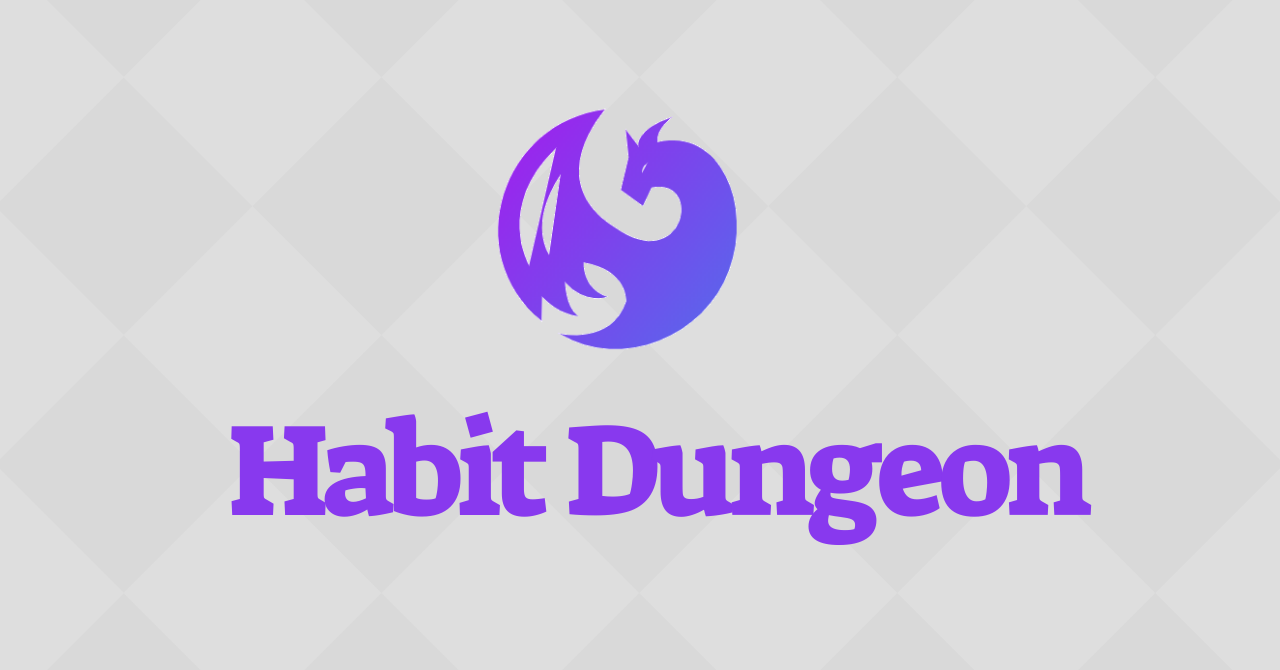
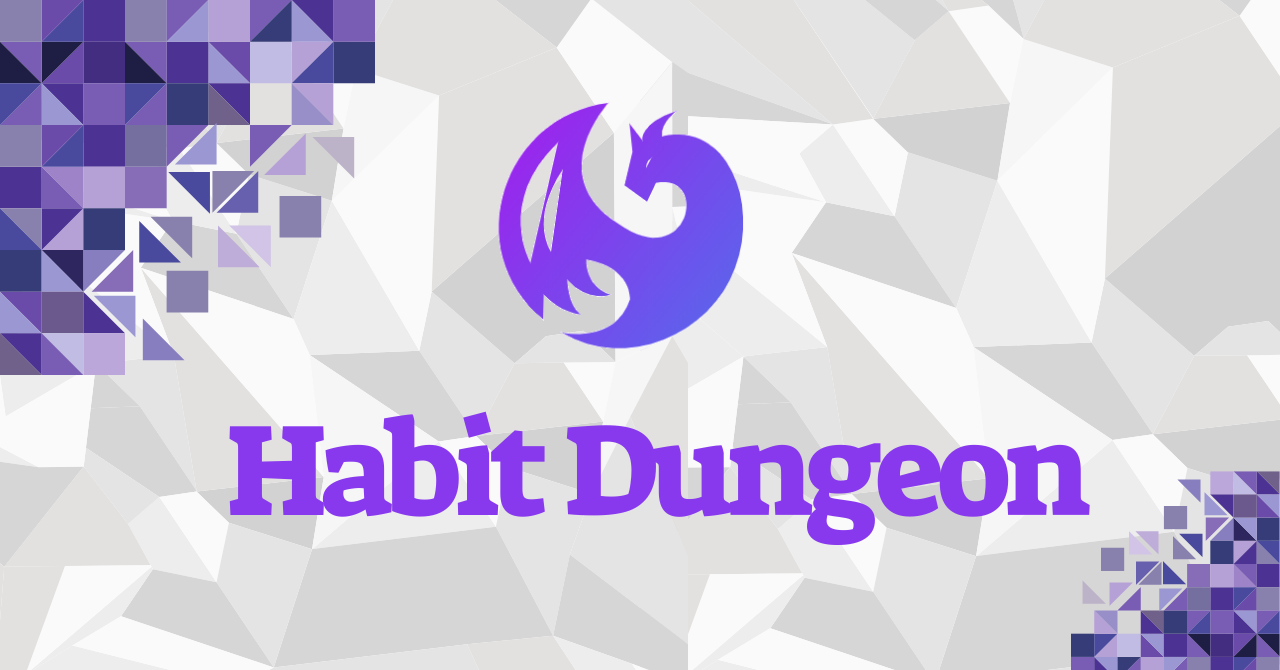
dockerとogpを編集

diff --git a/app/helpers/meta_tags_helper.rb b/app/helpers/meta_tags_helper.rb
@@ -28,7 +28,7 @@ module MetaTagsHelper
         app_id: '661596567936976'
       },
       twitter: {
-        card: 'summary',
+        card: 'summary_large_image',
         site: '@bbbbruno69',
         image: asset_pack_url('media/images/ogp.png'),
         width: 100,

diff --git a/README.md b/README.md
@@ -35,13 +35,13 @@ https://habit-dungeon.com
 
 # クラウドアーキテクチャ
 
-![cloud.png](https://user-images.githubusercontent.com/41530576/78524121-019a8300-780e-11ea-8f84-734ad70dfaf5.png)
+![cloud](https://user-images.githubusercontent.com/41530576/78524121-019a8300-780e-11ea-8f84-734ad70dfaf5.png)
 
 # インストール
 
 ```
 $ docker-compose build
-$ docker-compose run app bin/setup
+$ docker-compose run -rm app bin/setup
 $ docker-compose up
 ```
 
@@ -56,3 +56,9 @@ $ bundle exec rspec
 ```
 $ ./bin/lint
 ```
+
+# 資料
+
+エレベーターピッチ、ペーパープロトタイプ、DB設計図を作成しました。
+以下のリンクで確認できます。
+[資料一覧](https://github.com/bbbbruno/habit-dungeon/wiki/%E4%BC%81%E7%94%BB%E8%B3%87%E6%96%99)
